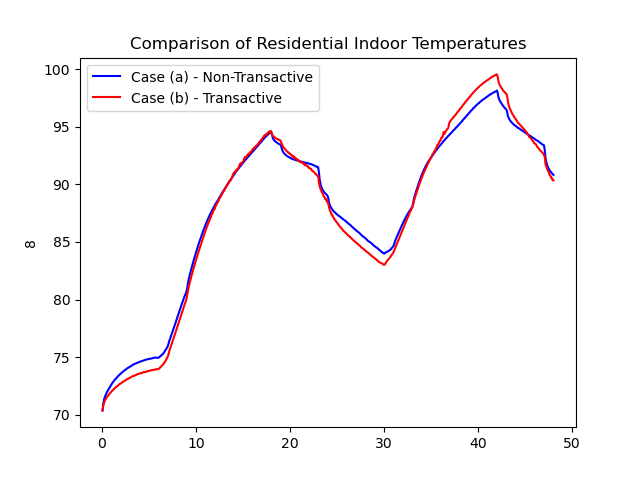
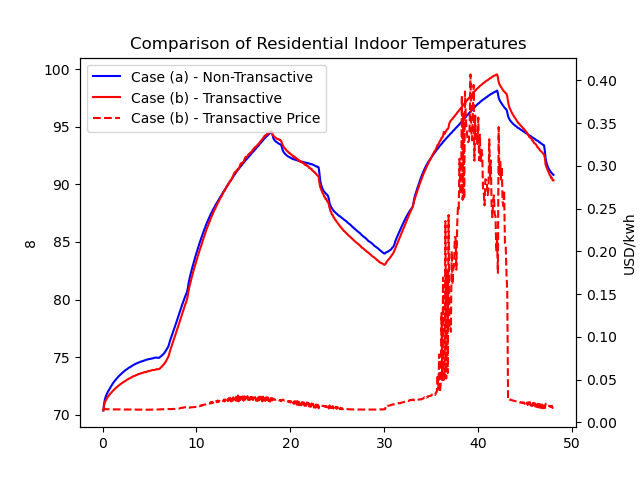
Update residential indoor temperature plot to include price

diff --git a/src/tesp_support/tesp_support/validation_plots.py b/src/tesp_support/tesp_support/validation_plots.py
@@ -128,7 +128,7 @@ def load_data():
 
     logger.info('Loading processed metrics data')
     data = {}
-    cases = ['b', 'c', 'd', 'e']
+    cases = ['a', 'b']
     for case in cases:
         data[case] = {}
 
@@ -389,7 +389,8 @@ def plot_avg_indoor_air_temperature(data):
     :return:
     '''
     if 'a' in data.keys() and 'b' in data.keys():
-        if 'gld' in data['a'].keys() and 'gld' in data['b'].keys():
+        if 'gld' in data['a'].keys() and 'gld' in data['b'].keys() and \
+                'pypower' in data['a'].keys():
             if data['a']['gld']['found_data'] and \
                 data['b']['gld']['found_data']:
 
@@ -403,26 +404,41 @@ def plot_avg_indoor_air_temperature(data):
                 b_keys_h = data['b']['gld']['keys_h']
                 b_idx_h = data['b']['gld']['idx_h']
 
+                bp_hrs = data['b']['pypower']['hrs']
+                bp_data_b = data['b']['pypower']['data_b']
+                bp_idx_b = data['b']['pypower']['idx_b']
+
                 a_avg = (a_data_h[:,:,a_idx_h['HSE_AIR_AVG_IDX']]).squeeze()
                 a_avg2 = a_avg.mean(axis=0)
                 b_avg = (b_data_h[:,:,b_idx_h['HSE_AIR_AVG_IDX']]).squeeze()
                 b_avg2 = b_avg.mean(axis=0)
 
-                plt.plot(a_hrs, a_avg2, color='blue', label='Case (a) - '
+                fig, ax = plt.subplots()
+                ax2 = ax.twinx()
+                ln1 = ax.plot(a_hrs, a_avg2, color='blue', label='Case (a) - '
                                                            'Non-Transactive')
-                plt.plot(b_hrs, b_avg2, color='red', label='Case (b) - Transactive')
-                plt.ylabel(a_idx_h['HSE_AIR_AVG_UNITS'])
+                ln2 = ax.plot(b_hrs, b_avg2, color='red', label='Case (b) - '
+                                                         'Transactive')
+                ln3 = ax2.plot(bp_hrs, bp_data_b[0, :, bp_idx_b['LMP_P_IDX']],
+                        color='red', label='Case (b) - Transactive Price',
+                               linestyle='dashed')
+                ax.set_ylabel(a_idx_h['HSE_AIR_AVG_UNITS'])
+                ax2.set_ylabel(bp_idx_b['LMP_P_UNITS'])
+                lns = ln1 + ln2 + ln3
+                labels = [l.get_label() for l in lns]
                 plt.title('Comparison of Residential Indoor Temperatures')
-                plt.legend(loc='upper left')
+                ax.legend(lns, labels, loc='upper left')
                 plt.show()
                 logger.info('\tCompleted plot_avg_indoor_air_temperature.')
             else:
-                logger.error('\tMissing GridLAB-D data; unable to complete '
-                             'plot_avg_indoor_air_temperature.')
+                logger.error('\tMissing GridLAB-D or PYPOWER data; unable to '
+                             'complete plot_avg_indoor_air_temperature.')
                 if (data['a']['gld']['found_data']) == False:
-                    logger.error('\t\tMissing data for Case (a)')
+                    logger.error('\t\tMissing GridLAB-D data for Case (a)')
                 if (data['b']['gld']['found_data']) == False:
-                    logger.error('\t\tMissing data for Case (b)')
+                    logger.error('\t\tMissing GridLAB-D data for Case (b)')
+                if (data['b']['pypower']['found_data']) == False:
+                    logger.error('\t\tMissing PYPOWER data for Case (b)')
         else:
             if 'gld' not in data['a'].keys():
                 logger.error('\tNo GridLAB-D data loaded for Case (a); '
@@ -430,6 +446,10 @@ def plot_avg_indoor_air_temperature(data):
                              'plot_avg_indoor_air_temperature.')
             if 'gld' not in data['b'].keys():
                 logger.error('\tNo GridLAB-D data loaded for Case (b); '
+                             'unable to complete '
+                             'plot_avg_indoor_air_temperature.')
+            if 'pypower' not in data['b'].keys():
+                logger.error('\tNo PYPOWER data loaded for Case (b); '
                              'unable to complete '
                              'plot_avg_indoor_air_temperature.')
     else:
